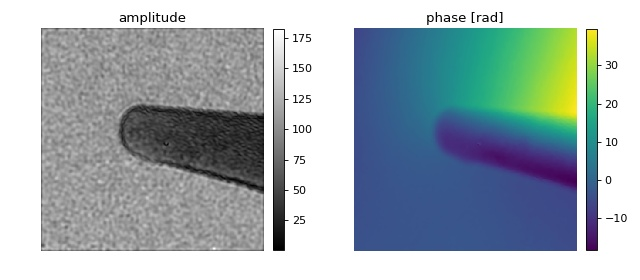
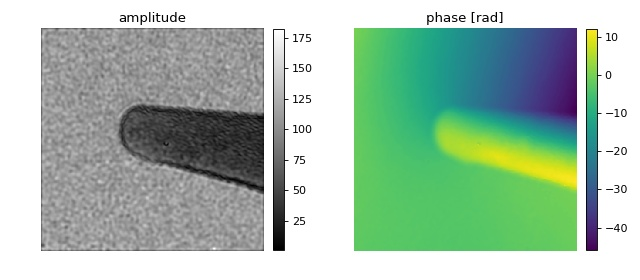
select correct sideband

diff --git a/examples/hyperspy_hologram.py b/examples/hyperspy_hologram.py
@@ -22,8 +22,13 @@ if not os.path.exists(dl_name):
     urllib.request.urlretrieve(dl_loc + dl_name, dl_name)
 
 ds = qpformat.load_data(dl_name,
-                        # reduces ringing artifacts in the amplitude image
-                        holo_kw={"filter_name": "smooth disk"})
+                        
+                        holo_kw={
+                            # reduces ringing artifacts in the amplitude image
+                            "filter_name": "smooth disk",
+                            # select correct sideband
+                            "sideband": -1,
+                            })
 
 # retrieve the qpimage.QPImage instance
 qpi = ds.get_qpimage(0)
